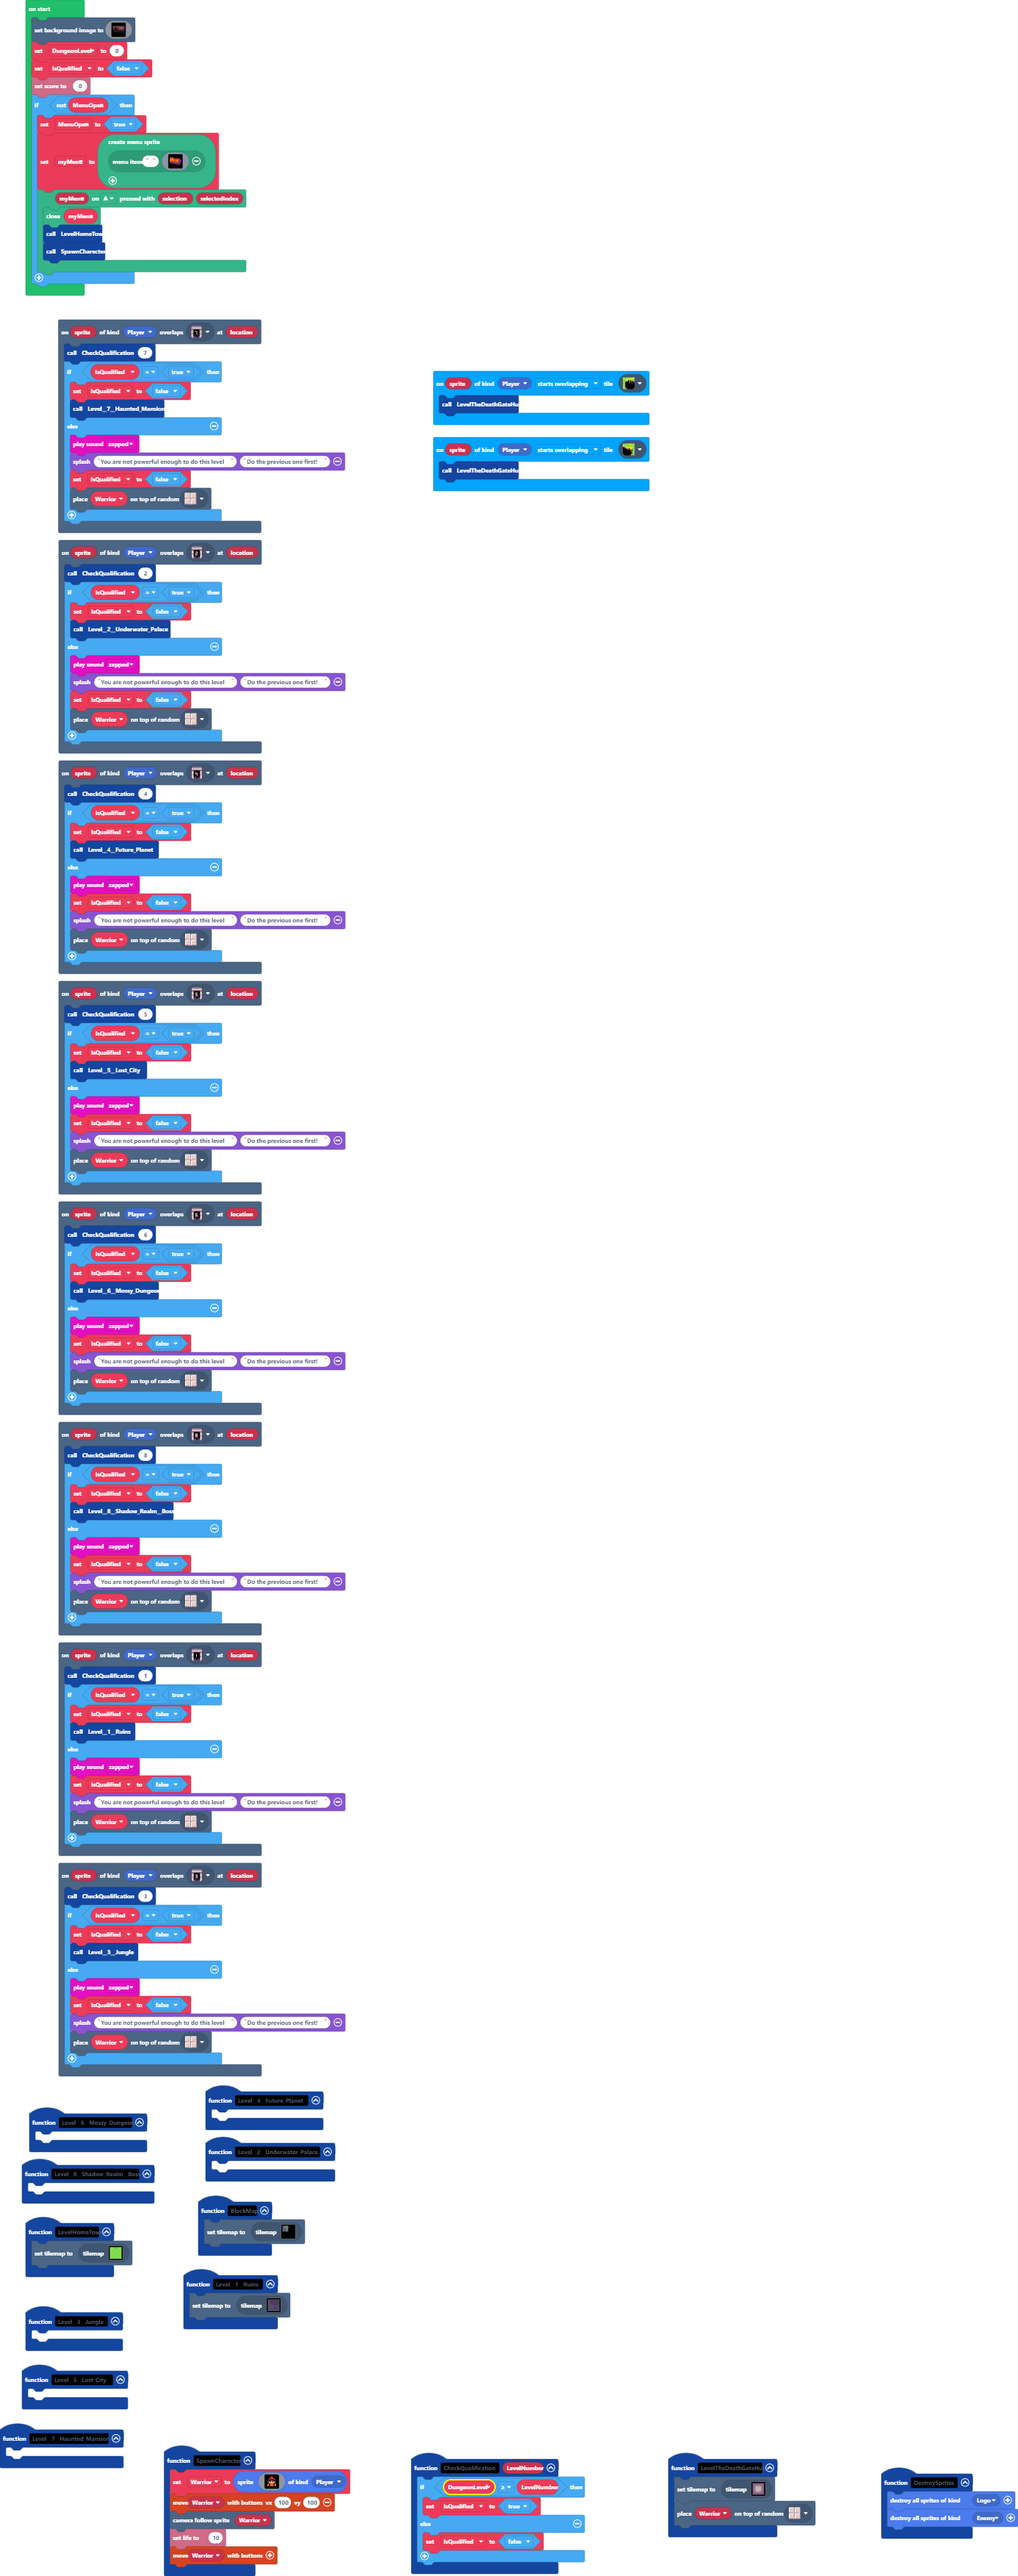
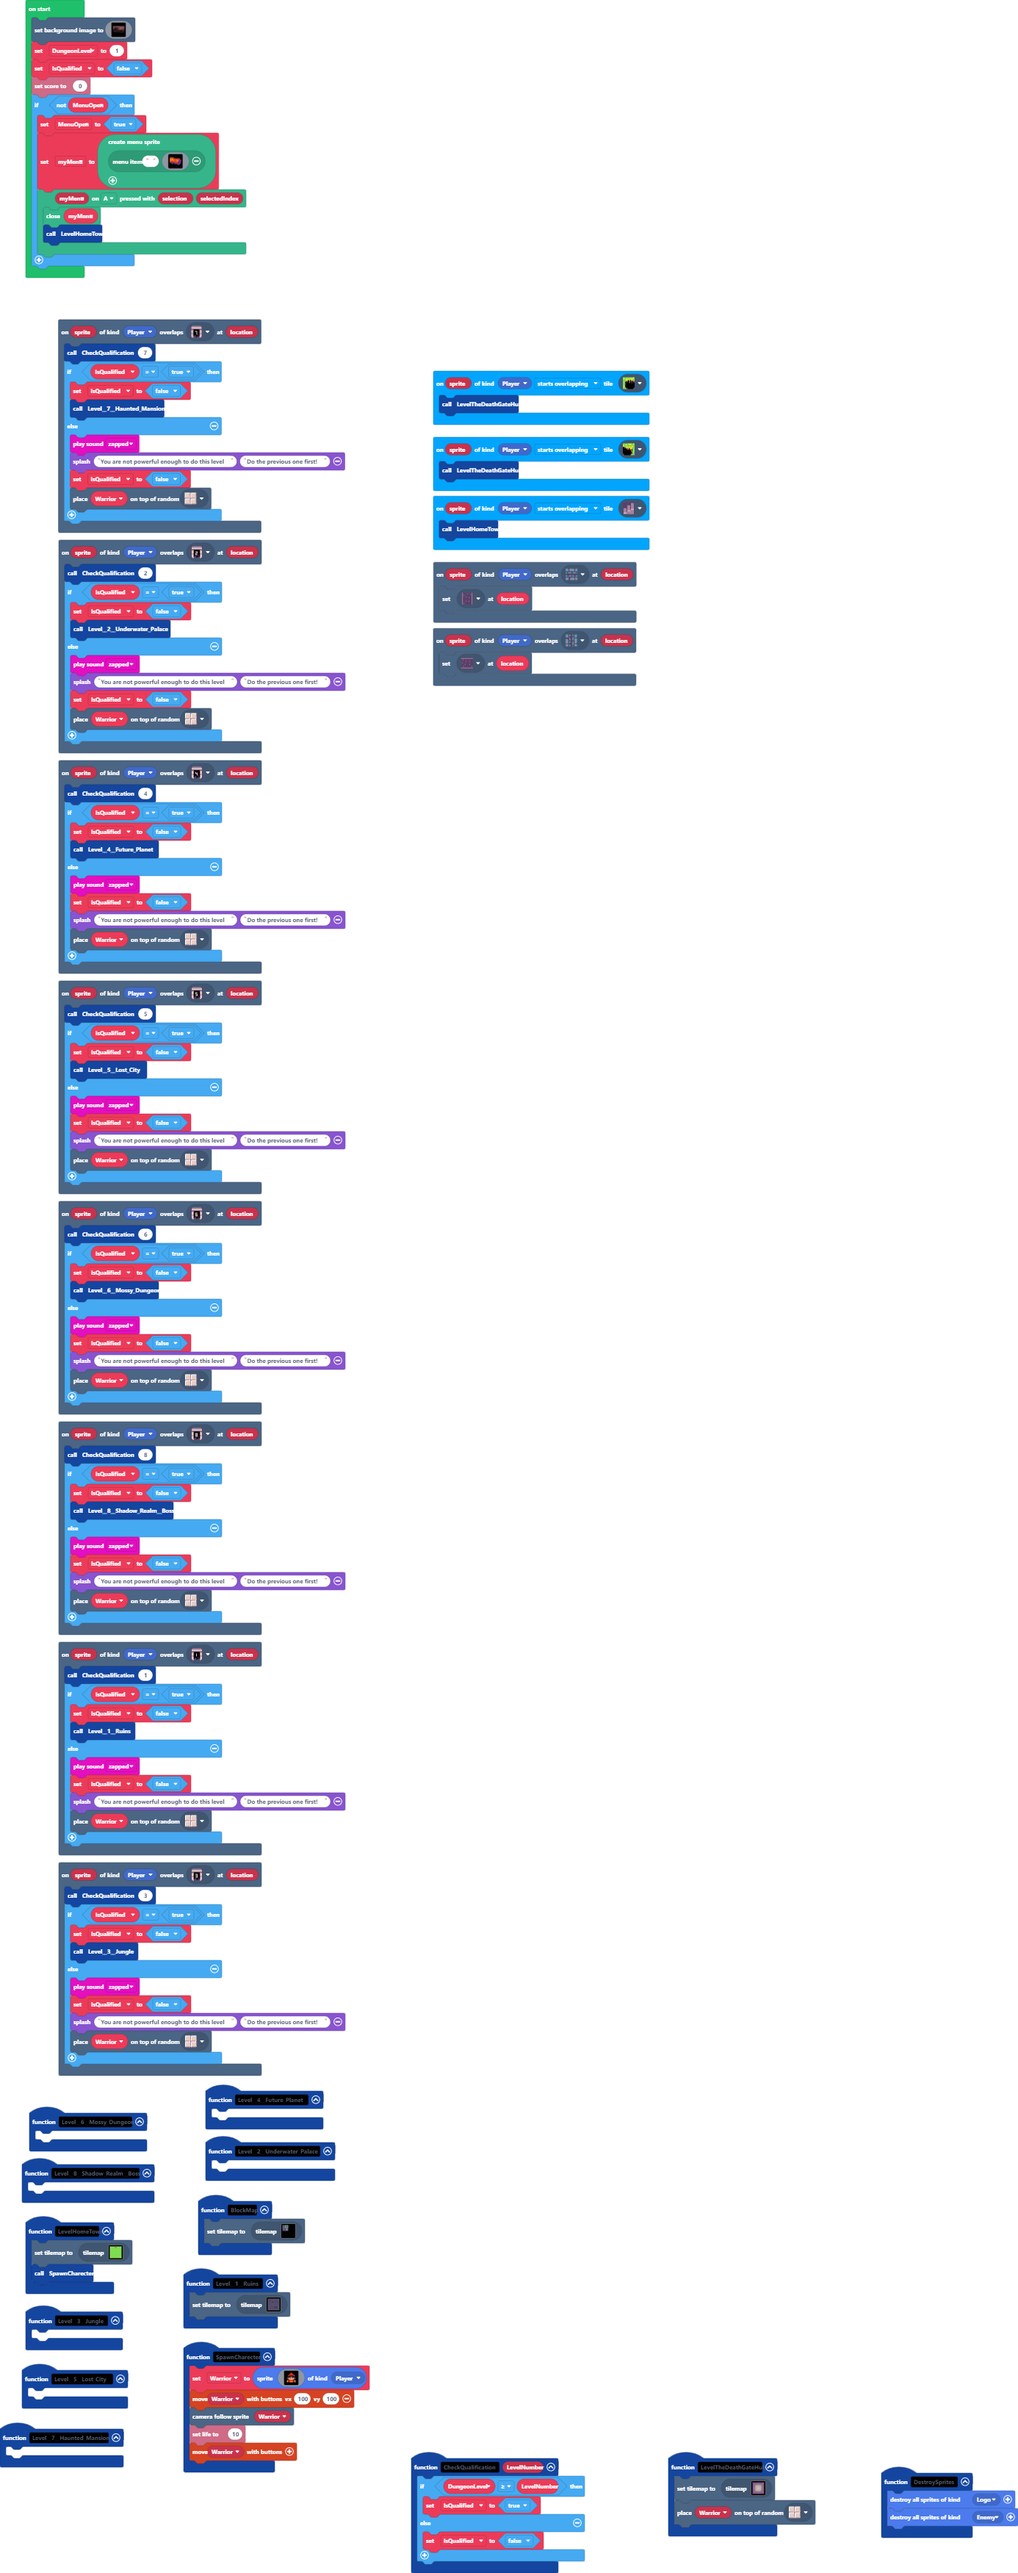
Update main.blocks, main.ts, tilemap.g.jres, tilemap.g.ts

diff --git a/tilemap.g.ts b/tilemap.g.ts
@@ -88,6 +88,20 @@ namespace myTiles {
     export const tile44 = image.ofBuffer(hex``);
     //% fixedInstance jres blockIdentity=images._tile
     export const tile45 = image.ofBuffer(hex``);
+    //% fixedInstance jres blockIdentity=images._tile
+    export const tile32 = image.ofBuffer(hex``);
+    //% fixedInstance jres blockIdentity=images._tile
+    export const tile46 = image.ofBuffer(hex``);
+    //% fixedInstance jres blockIdentity=images._tile
+    export const tile47 = image.ofBuffer(hex``);
+    //% fixedInstance jres blockIdentity=images._tile
+    export const tile48 = image.ofBuffer(hex``);
+    //% fixedInstance jres blockIdentity=images._tile
+    export const tile49 = image.ofBuffer(hex``);
+    //% fixedInstance jres blockIdentity=images._tile
+    export const tile43 = image.ofBuffer(hex``);
+    //% fixedInstance jres blockIdentity=images._tile
+    export const tile50 = image.ofBuffer(hex``);
 
     helpers._registerFactory("tilemap", function(name: string) {
         switch(helpers.stringTrim(name)) {
@@ -287,29 +301,29 @@ namespace myTiles {
 . . . . . . . . . . . . . . . . 
 `, [myTiles.transparency16], TileScale.Sixteen);
             case "level10":
[1 lines of base64/hex data omitted]
-.....................
-.....................
-.....................
-.....................
-.....................
-.....................
-.....................
-.....................
-.....................
-.....................
-.....................
-.....................
-.....................
-.....................
-.....................
-.....................
-.....................
-.....................
-.....................
-.....................
-.....................
-`, [myTiles.transparency16,myTiles.tile15,myTiles.tile16,myTiles.tile17,myTiles.tile18,myTiles.tile19,myTiles.tile20,sprites.dungeon.stairEast,myTiles.tile29,myTiles.tile38,myTiles.tile40,myTiles.tile25,myTiles.tile26,myTiles.tile27,myTiles.tile28,myTiles.tile30,sprites.dungeon.darkGroundCenter,myTiles.tile39,myTiles.tile41,sprites.dungeon.darkGroundNorthEast0,sprites.dungeon.darkGroundNorthWest0,sprites.dungeon.darkGroundSouthWest0,sprites.dungeon.darkGroundNorth,sprites.dungeon.darkGroundSouth,myTiles.tile42,myTiles.tile44,myTiles.tile45], TileScale.Sixteen);
[1 lines of base64/hex data omitted]
+222222222222222222222
+2.......22222.......2
+2.2...2.......22222.2
+2.2...222222222...2.2
+2.2...2..........22.2
+2.2...2....2........2
+2.222.2....2222222..2
+2...2.2..........2..2
+222.2.2222222222.2222
+....2..........2.....
+222.22222222222222222
+2...2....2..........2
+2.222.22.2.22222222.2
+2.2....2.2........2.2
+2.2.2..2.2........2.2
+2.2222.2.2........222
+2.2....2.2..........2
+2.2....2.2........2.2
+2.2222.2.2222222222.2
+2......2............2
+222222222222222222222
+`, [myTiles.transparency16,myTiles.tile15,myTiles.tile16,myTiles.tile17,myTiles.tile18,myTiles.tile19,myTiles.tile20,sprites.dungeon.stairEast,myTiles.tile29,myTiles.tile38,myTiles.tile40,myTiles.tile25,myTiles.tile26,myTiles.tile27,myTiles.tile28,myTiles.tile30,sprites.dungeon.darkGroundCenter,myTiles.tile39,myTiles.tile41,sprites.dungeon.darkGroundNorthEast0,sprites.dungeon.darkGroundNorthWest0,sprites.dungeon.darkGroundSouthWest0,sprites.dungeon.darkGroundNorth,sprites.dungeon.darkGroundSouth,myTiles.tile42,myTiles.tile44,myTiles.tile45,sprites.dungeon.stairLarge,myTiles.tile36,sprites.dungeon.darkGroundSouthEast0,sprites.dungeon.darkGroundWest,sprites.dungeon.darkGroundEast,sprites.dungeon.collectibleInsignia,myTiles.tile32,myTiles.tile46,myTiles.tile47,sprites.dungeon.darkGroundSouthEast1,myTiles.tile48,myTiles.tile49,myTiles.tile43,myTiles.tile37,myTiles.tile50], TileScale.Sixteen);
         }
         return null;
     })
@@ -403,6 +417,20 @@ namespace myTiles {
             case "tile44":return tile44;
             case "myTile30":
             case "tile45":return tile45;
+            case "RuinsTile - 2 - Horizontal - Breakable0":
+            case "tile32":return tile32;
+            case "myTile18":
+            case "tile46":return tile46;
+            case "myTile28":
+            case "tile47":return tile47;
+            case "myTile31":
+            case "tile48":return tile48;
+            case "myTile32":
+            case "tile49":return tile49;
+            case "myTile33":
+            case "tile43":return tile43;
+            case "myTile34":
+            case "tile50":return tile50;
         }
         return null;
     })

diff --git a/main.ts b/main.ts
@@ -77,6 +77,7 @@ function Level__8__Shadow_Realm__Boss () {
 }
 function LevelHomeTown () {
     tiles.setCurrentTilemap(tilemap`level1`)
+    SpawnCharecter()
 }
 function Level__4__Future_Planet () {
 	
@@ -170,6 +171,15 @@ function SpawnCharecter () {
 function Level__7__Haunted_Mansion () {
 	
 }
+scene.onOverlapTile(SpriteKind.Player, assets.tile`RuinsTile - 2 - Horizontal - Breakable0`, function (sprite, location) {
+    tiles.setTileAt(location, assets.tile`myTile15`)
+})
+scene.onOverlapTile(SpriteKind.Player, assets.tile`RuinsTile - 2 - Horizontal - Breakable`, function (sprite, location) {
+    tiles.setTileAt(location, assets.tile`myTile16`)
+})
+events.tileEvent(SpriteKind.Player, sprites.dungeon.stairLarge, events.TileEvent.StartOverlapping, function (sprite) {
+    LevelHomeTown()
+})
 function Level__1__Ruins () {
     tiles.setCurrentTilemap(tilemap`level10`)
 }
@@ -296,7 +306,7 @@ scene.setBackgroundImage(img`
     ffffffffffffffffffffffffffffffffffffffffffffffffffffffffffffffffcffcffffffffffffffffffffffffffffffffffffffffffffffffffffffffffffffffffffffffffffffffffffffcfccfffffcfffffffffffffffffffffffffcefffffcff
     fffffffffffffffffffffffffffffffffffffffffffffffffffffffffffffffffccfffffffffffffffffffffffffffffffffffffffffffffffffffffffffffffffffffffffffffffffffffffffffccfffffffffffffffffffffffffffffffffffffffff
     `)
-DungeonLevel = 0
+DungeonLevel = 1
 IsQualified = false
 info.setScore(0)
 if (!(MenuOpen)) {
@@ -327,6 +337,5 @@ if (!(MenuOpen)) {
     myMenu.onButtonPressed(controller.A, function (selection, selectedIndex) {
         myMenu.close()
         LevelHomeTown()
-        SpawnCharecter()
     })
 }
